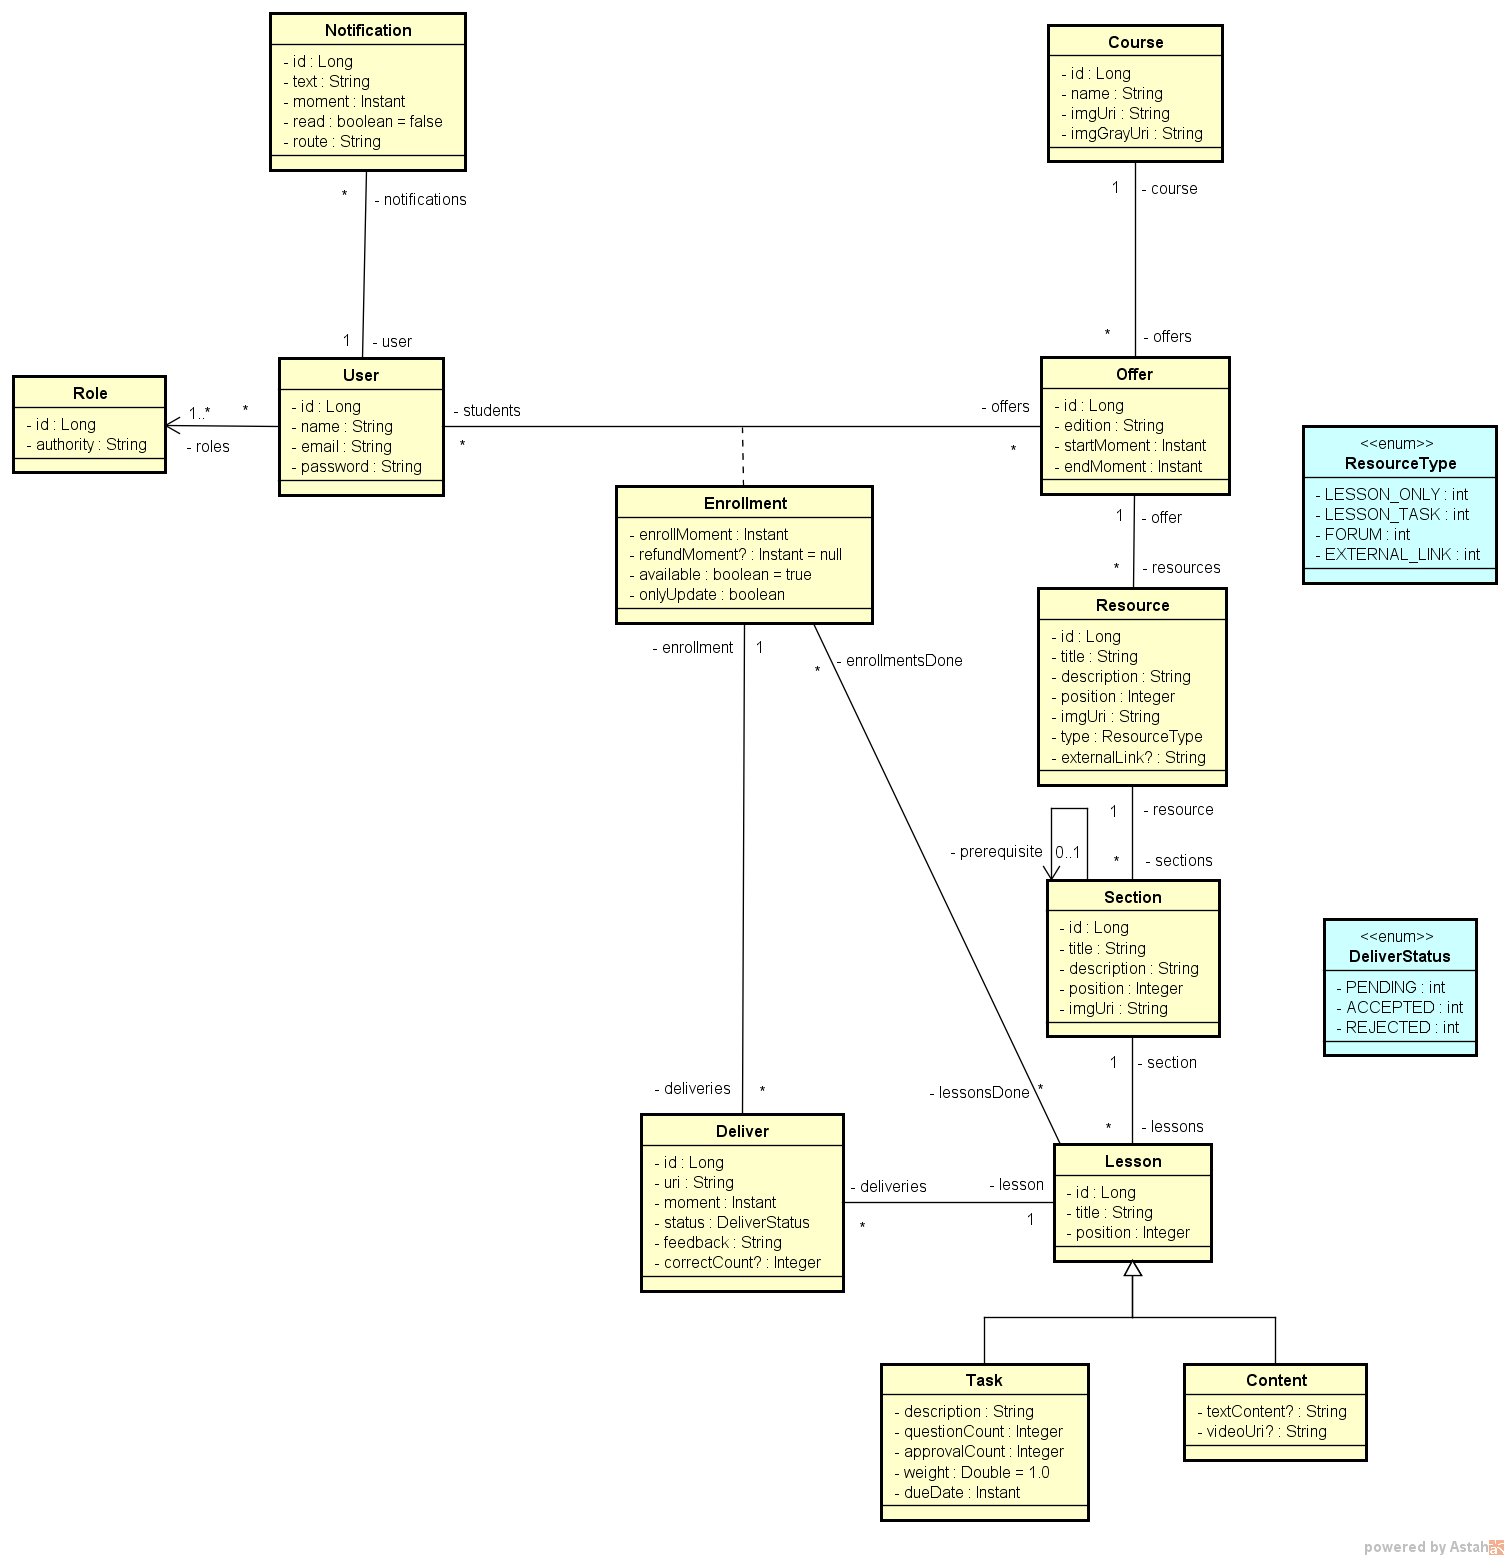
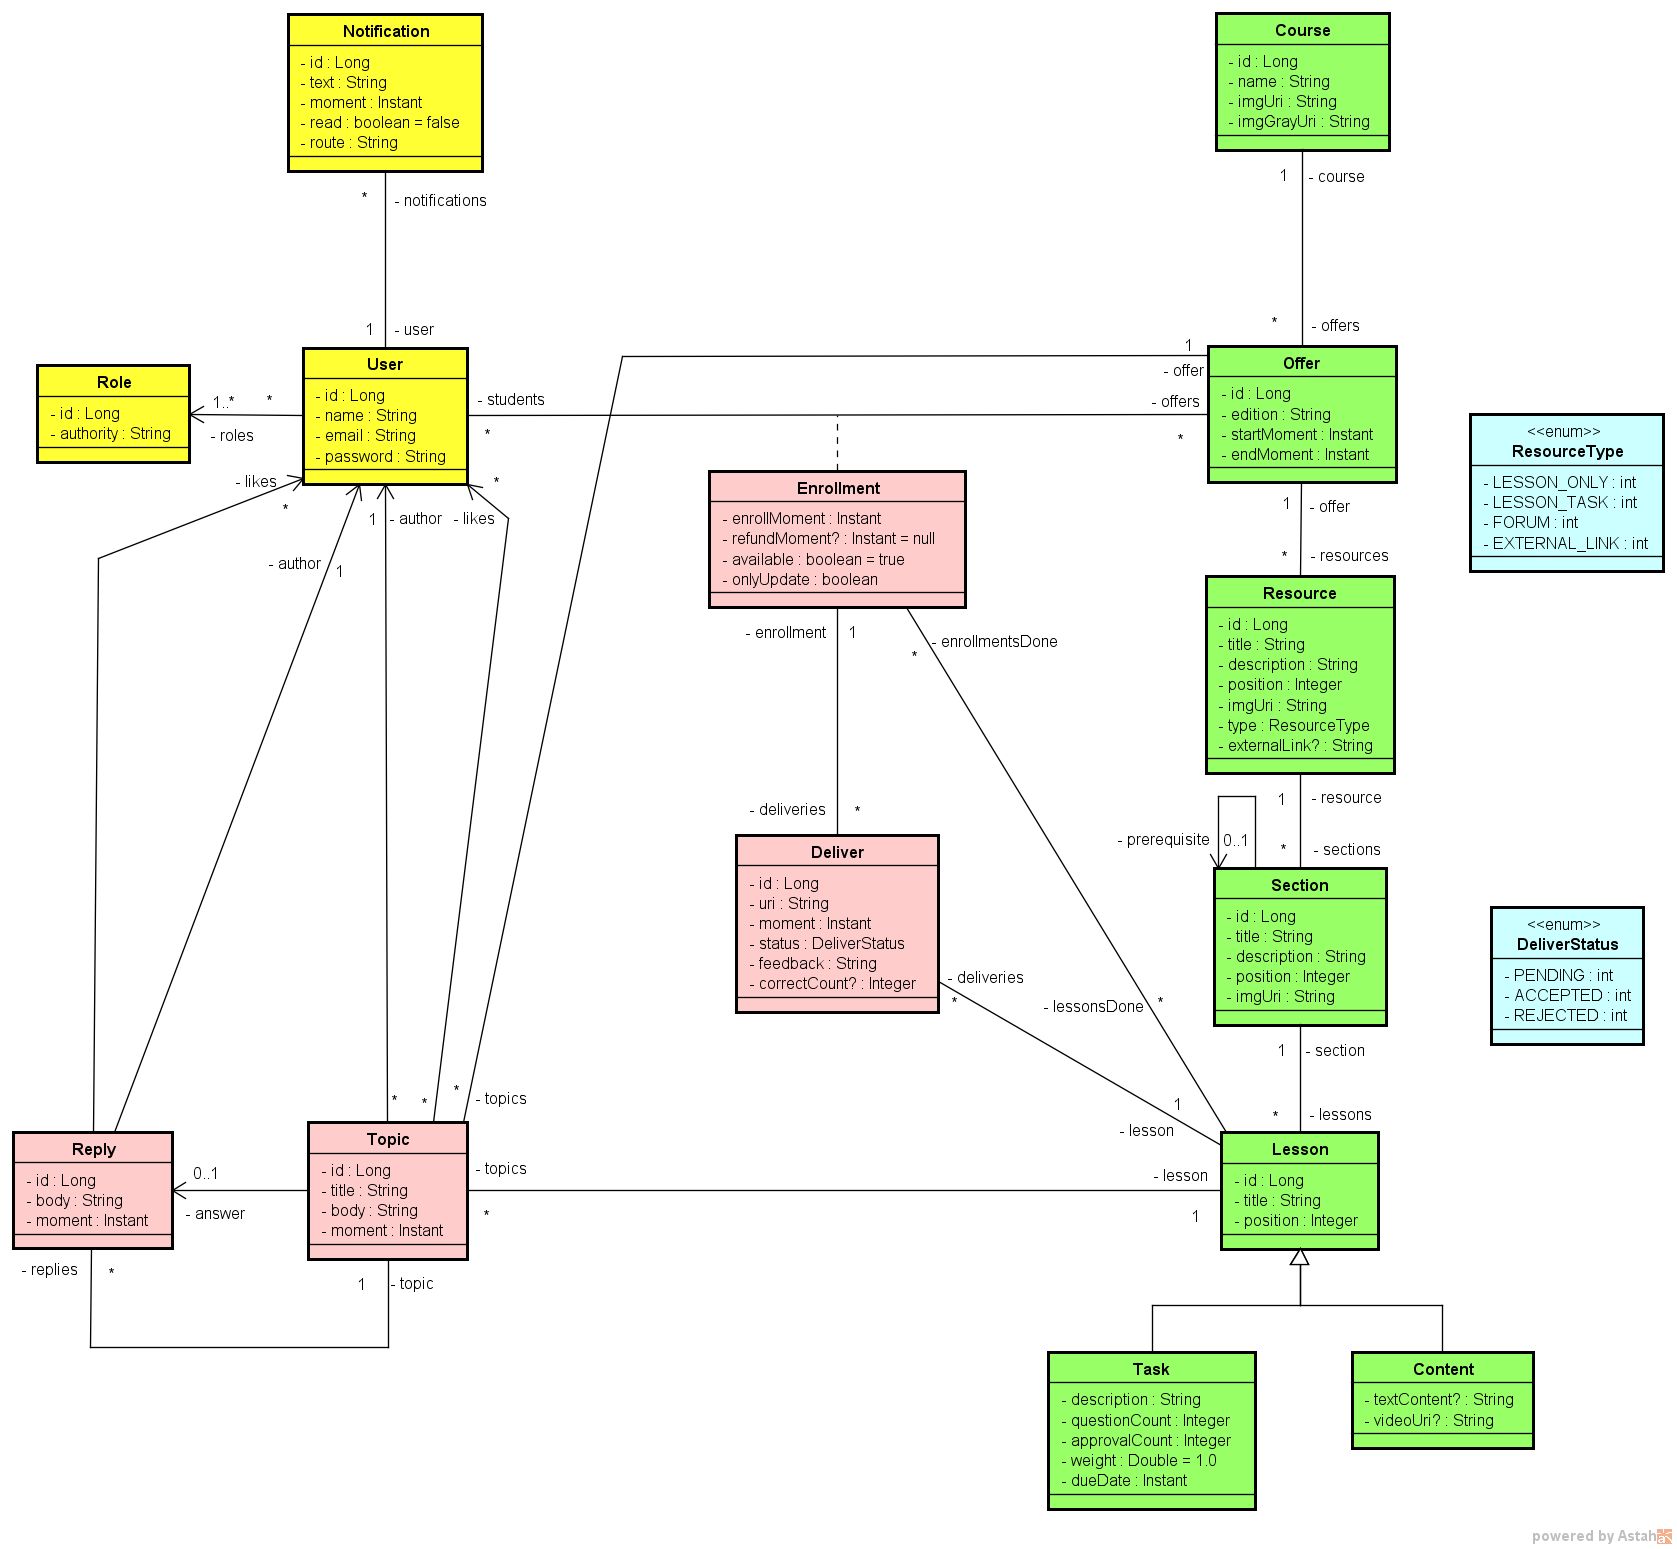
Topic Entity

diff --git a/src/main/java/com/example/learn/entities/Topic.java b/src/main/java/com/example/learn/entities/Topic.java
@@ -1,0 +1,48 @@
+package com.example.learn.entities;
+
+import jakarta.persistence.*;
+import lombok.*;
+
+import java.time.Instant;
+import java.util.HashSet;
+import java.util.Set;
+
+@AllArgsConstructor
+@NoArgsConstructor
+@Getter
+@Setter
+@EqualsAndHashCode(of = {"id"})
+@ToString
+@Entity
+@Table(name = "tb_topic")
+public class Topic {
+    @Id
+    @GeneratedValue(strategy = GenerationType.IDENTITY)
+    private Long id;
+
+    private String title;
+
+    @Column(columnDefinition = "TEXT")
+    private String body;
+
+    @Column(columnDefinition = "TIMESTAMP WITHOUT TIME ZONE")
+    private Instant moment;
+
+    @ManyToOne
+    @JoinColumn(name = "lesson_id")
+    private Lesson lesson;
+
+    @ManyToOne
+    @JoinColumn(name = "author_id")
+    private User author;
+
+    @ManyToOne
+    @JoinColumn(name = "offer_id")
+    private Offer offer;
+
+    @ManyToMany
+    @JoinTable(name = "tb_topic_likes",
+            joinColumns = @JoinColumn(name = "topic_id"),
+            inverseJoinColumns = @JoinColumn(name = "user_id"))
+    private Set<User> likes = new HashSet<>();
+}
